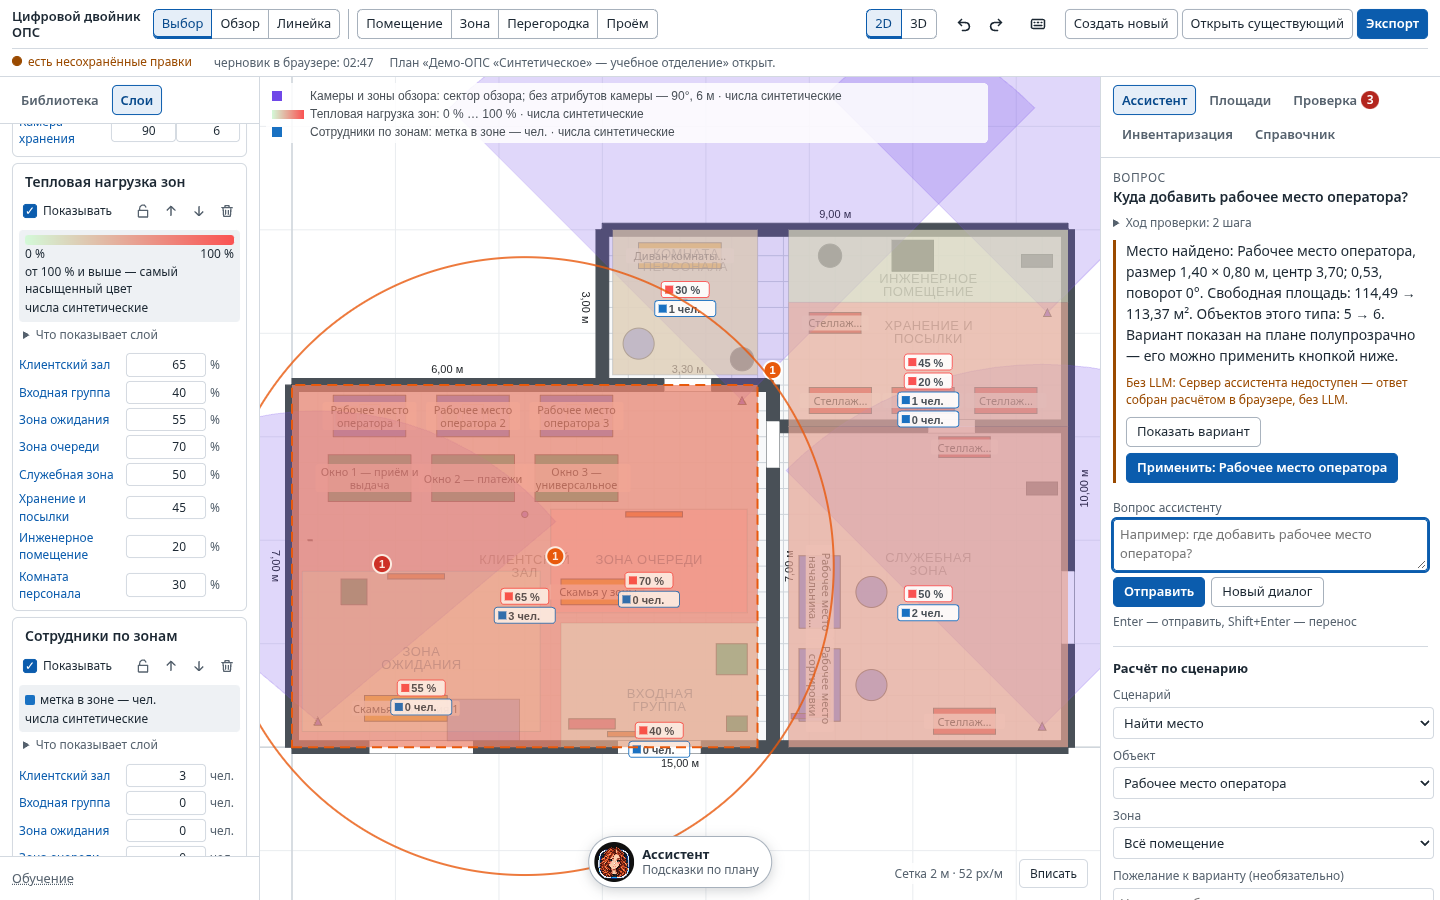
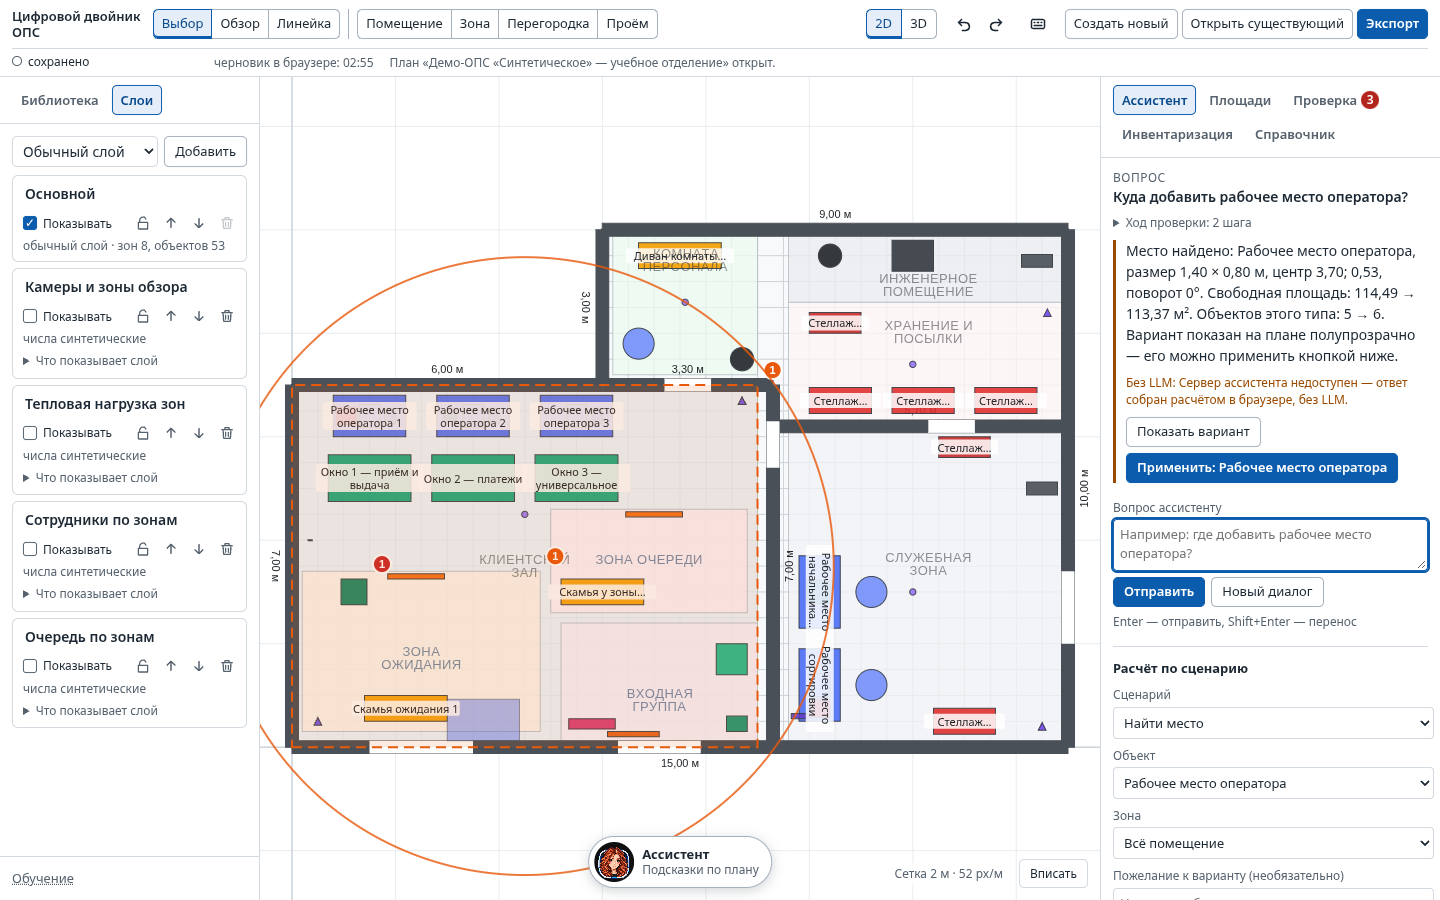
docs: e-assistant-chat.png без слоёв поверх плана
Информационные слои (камеры/тепло/сотрудники) закрывали план и полупрозрачный
вариант ассистента почти не был виден. Кадр (е) теперь снимается с демо-планом
без включённых слоёв — вариант «Рабочее место оператора» ясно виден на плане,
справа ответ «Без LLM» и кнопка «Применить».

Claude-Session: https://claude.ai/code/session_016wHYY6ei8Ea1hxgcdDBiAf

diff --git a/scripts/capture-presentation-2026-09-22.ts b/scripts/capture-presentation-2026-09-22.ts
@@ -69,6 +69,10 @@ try {
   await page.screenshot({ path: join(dir, 'd-catalog-add-type.png'), animations: 'disabled' });
 
   // (д) ассистент: чат-ответ без LLM, вариант на плане, кнопка «Применить».
+  // Слои из шага (в) выключены заново загрузкой демо-плана: информационные
+  // слои по умолчанию не показаны, и вариант ассистента виден на чистом плане.
+  await page.getByTestId('plan-file-input').setInputFiles(join(process.cwd(), 'demo', 'before.json'));
+  await expect(page.getByLabel('Инвентаризация').locator('table').first().locator('tbody tr')).toHaveCount(53);
   await page.getByRole('tab', { name: /^Ассистент/ }).click();
   const assistant = page.getByLabel('Ассистент', { exact: true });
   await assistant.getByLabel('Вопрос ассистенту').fill('Куда добавить рабочее место оператора?');
